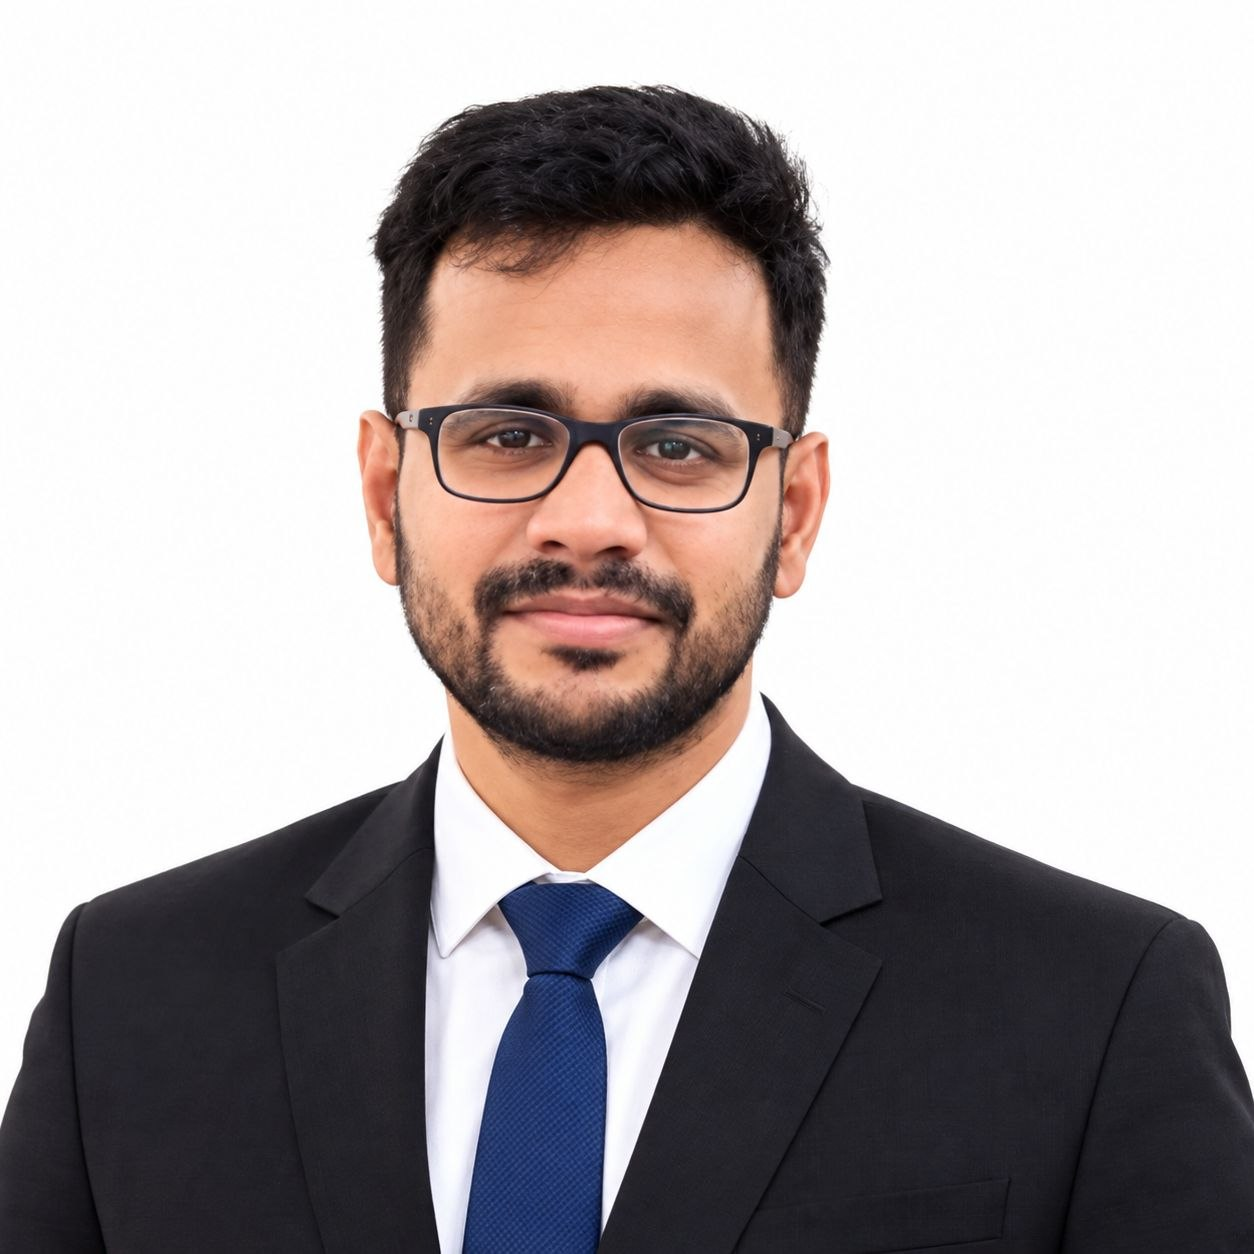
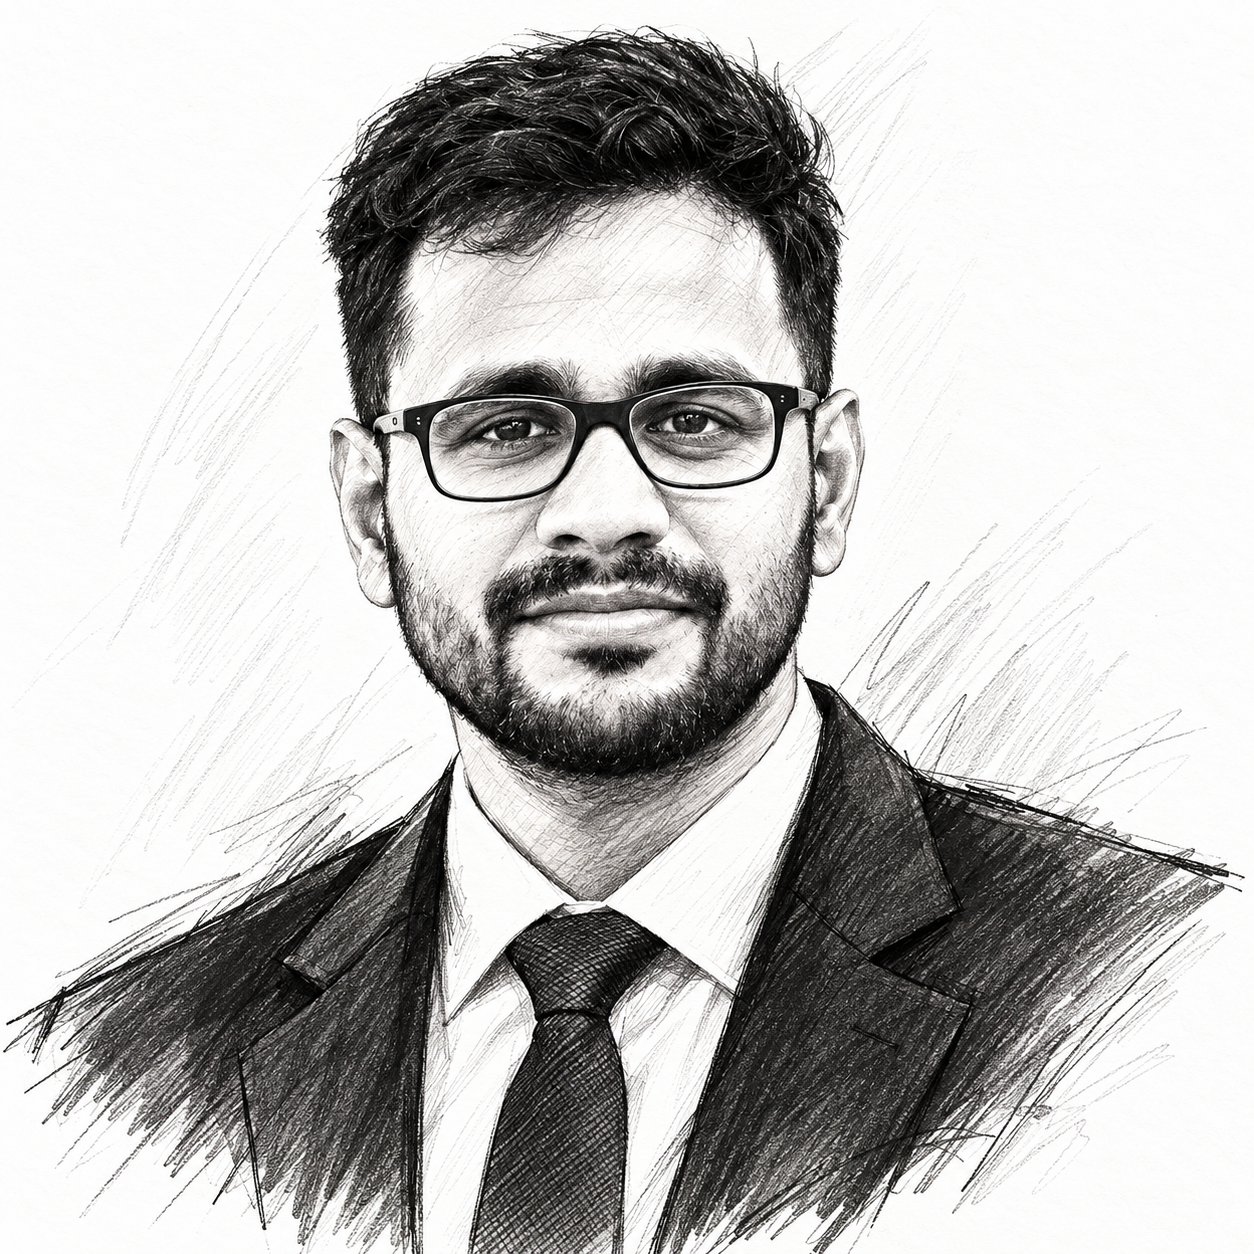
phew

diff --git a/src/pages/Home.tsx b/src/pages/Home.tsx
@@ -151,26 +151,23 @@ export default function Home(): JSX.Element {
             <Helmet><title>Zeeshan Shaikh - Developer · Lifter · Investor</title></Helmet>
 
             {/* Hero */}
-            <section className="w-full bg-gradient-to-br from-indigo-50 via-white to-purple-50">
-                <div className="max-w-6xl mx-auto px-6 lg:px-16 py-14 lg:py-20 flex flex-col lg:flex-row items-center gap-10 lg:gap-20">
-                    <motion.div
-                        initial={{ opacity: 0, scale: 0.88 }}
-                        animate={{ opacity: 1, scale: 1 }}
-                        transition={{ duration: 0.65, ease: 'easeOut' }}
-                        className="relative shrink-0"
-                    >
-                        <div className="w-40 h-40 lg:w-52 lg:h-52 rounded-3xl overflow-hidden ring-4 ring-indigo-200 shadow-xl">
-                            <img src={`${process.env.PUBLIC_URL}/fit.jpeg`} alt="Zeeshan Shaikh" className="w-full h-full object-cover"/>
-                        </div>
-                        <span className="absolute -bottom-1.5 -right-1.5 w-5 h-5 bg-emerald-400 rounded-full border-2 border-white shadow-md"/>
-                        <div className="absolute -z-10 -top-4 -left-4 w-full h-full rounded-3xl bg-indigo-100 opacity-60"/>
-                    </motion.div>
-
+            <section className="w-full bg-gradient-to-br from-indigo-50 via-white to-purple-50 relative overflow-hidden">
+                {/* Sketch - free-floating in background, right side */}
+                <div className="absolute right-0 top-0 h-full w-[45%] hidden lg:block pointer-events-none select-none">
+                    <img
+                        src={`${process.env.PUBLIC_URL}/fit.jpeg`}
+                        alt=""
+                        aria-hidden="true"
+                        className="absolute bottom-0 right-0 w-full object-contain object-bottom"
+                        style={{ opacity: 0.92, mixBlendMode: 'multiply', maxHeight: '95%' }}
+                    />
+                </div>
+                <div className="max-w-6xl mx-auto px-6 lg:px-16 py-14 lg:py-24 flex flex-col lg:flex-row items-end gap-10 lg:gap-20">
                     <motion.div
                         initial={{ opacity: 0, x: 30 }}
                         animate={{ opacity: 1, x: 0 }}
                         transition={{ duration: 0.65, delay: 0.15, ease: 'easeOut' }}
-                        className="flex-1"
+                        className="flex-1 relative z-10"
                     >
                         <p className="text-indigo-500 text-sm font-semibold tracking-widest uppercase mb-2">Hey there 👋</p>
                         <h1 className="text-4xl lg:text-5xl font-bold text-gray-900 leading-tight">I'm Zeeshan Shaikh</h1>
@@ -178,17 +175,22 @@ export default function Home(): JSX.Element {
 
                         <div className="mt-5 space-y-3 text-gray-600 leading-relaxed text-[15px] max-w-2xl">
                             <p>
-                                I'm a software engineer with a strong grip on{' '}
-                                <span className="text-indigo-600 font-medium">Java, Spring Boot, and cloud-native systems</span>.
-                                I've spent years building scalable microservices, designing APIs, and shipping things that actually work in production — currently based in{' '}
-                                <span className="text-indigo-600 font-medium">Dubai, UAE</span>.
+                                I build things with{' '}
+                                <span className="text-indigo-600 font-medium">Java & Spring Boot</span> by day,
+                                lift heavy weights by evening, and read about the universe somewhere in between.
+                                Based in <span className="text-indigo-600 font-medium">Dubai</span> - but my mind wanders everywhere.
                             </p>
                             <p>
-                                Outside of code, I take my{' '}
-                                <span className="text-indigo-600 font-medium">powerlifting</span> seriously - I dropped 20 kg through disciplined calorie tracking and compound movements, and I haven't looked back. That same obsessive consistency carries into how I approach{' '}
-                                <span className="text-indigo-600 font-medium">long-term investing</span>: patient, research-driven, and never chasing noise.
+                                I lost <span className="text-indigo-600 font-medium">20 kg</span> not through a diet plan
+                                but through curiosity - understanding how the body actually works.
+                                Same energy goes into{' '}
+                                <span className="text-indigo-600 font-medium">investing</span>: slow, intentional, no noise.
                             </p>
-                            <p>I write about tech, fitness, and money on Medium and my blog.</p>
+                            <p>
+                                I'm drawn to patterns - in code, in markets, in people, in art.
+                                I write, I observe, I overthink playlists.
+                                This site is just a small window into all of that.
+                            </p>
                         </div>
 
                         <motion.div
@@ -208,6 +210,8 @@ export default function Home(): JSX.Element {
                             ))}
                         </motion.div>
                     </motion.div>
+
+
                 </div>
             </section>
 
